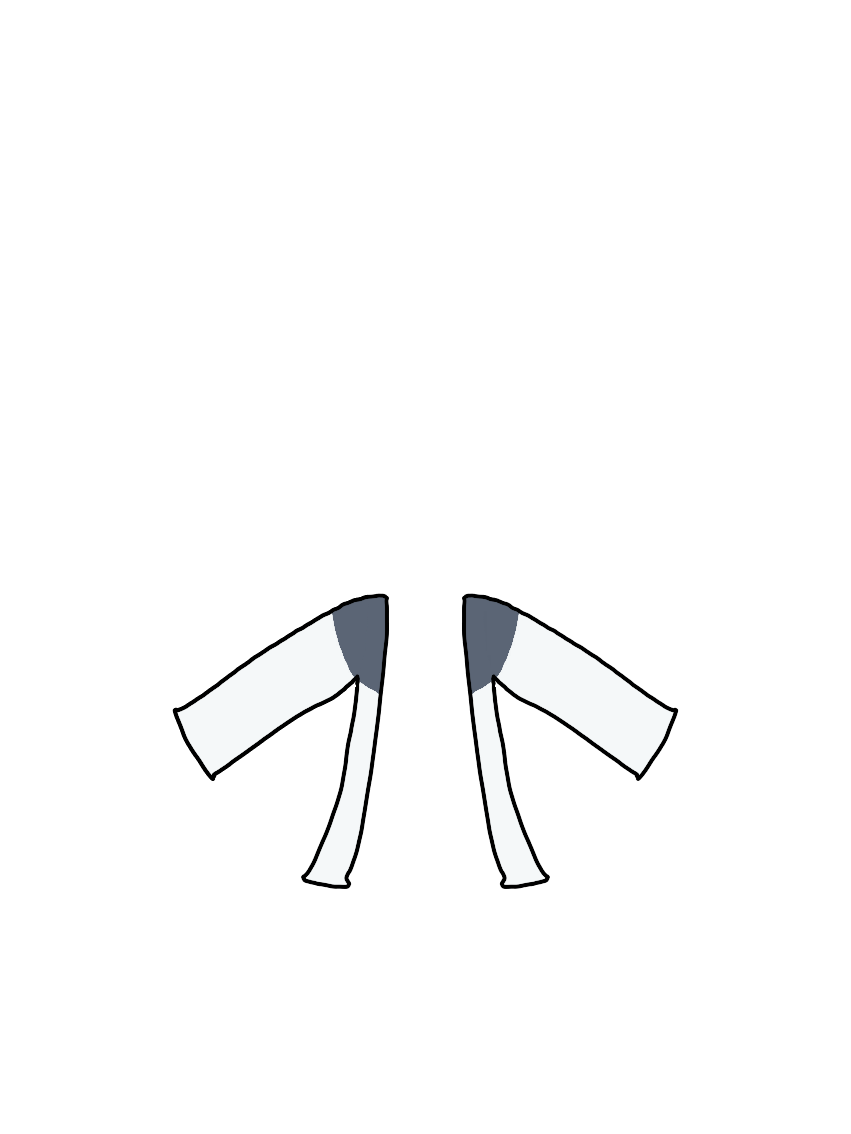
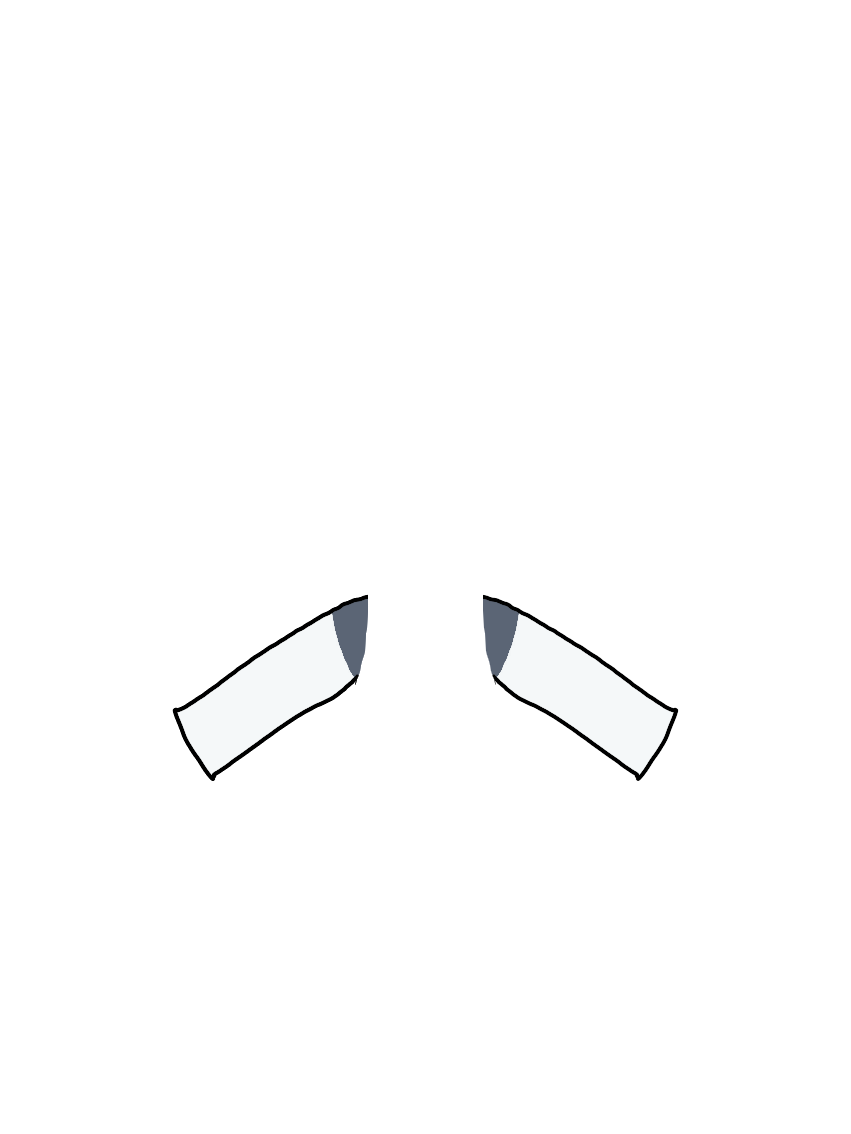
Jacket: front panels on the body, jacket drawn above the top
Claude-Session: https://claude.ai/code/session_01H839G1kH6FFFvxMWyLAkQa

Changed region(s): [[0.3666, 0.5247, 0.4583, 0.8025], [0.5194, 0.5247, 0.611, 0.7407], [0.5805, 0.7099, 0.6416, 0.8025]]

diff --git a/ragdoll.js b/ragdoll.js
@@ -829,12 +829,14 @@
       if (stiff) {
         // A stiff garment's share: all of it but what the arms, legs and head took.
         const t = mkRead(CW, CH);
-        if (over) t.x.drawImage(over, 0, 0);
         const st = mkRead(CW, CH);
         st.x.drawImage(stiff, 0, 0);
         st.x.globalCompositeOperation = 'destination-out';
         for (const o of regionParts) if (!o.offset) shape(st.x, o.region);
         t.x.drawImage(st.c, 0, 0);
+        // The _over layers go on top of the stiff garments, so a jacket's
+        // front panels cover the top beneath them.
+        if (over) t.x.drawImage(over, 0, 0);
         overAll = t.c;
       }
       if (overAll && bboxOf(overAll.getContext('2d', { willReadFrequently: true }))) {

diff --git a/outfit_config.js b/outfit_config.js
@@ -79,7 +79,7 @@ window.OUTFIT_CONFIG = {
     onepieceUnderwear: ["onepieceunderwear1"],
     top:               [{ id: "top1", stiff: true }],
     bottom:            ["pants1", { id: "skirt1", blows: true }],
-    jacket:            ["jacket1"],
+    jacket:            [{ id: "jacket1", stiff: true }],
     dress:             ["dress1"],
     bodysuit:          ["bodysuit1"],
     socks:             ["socks1"],
